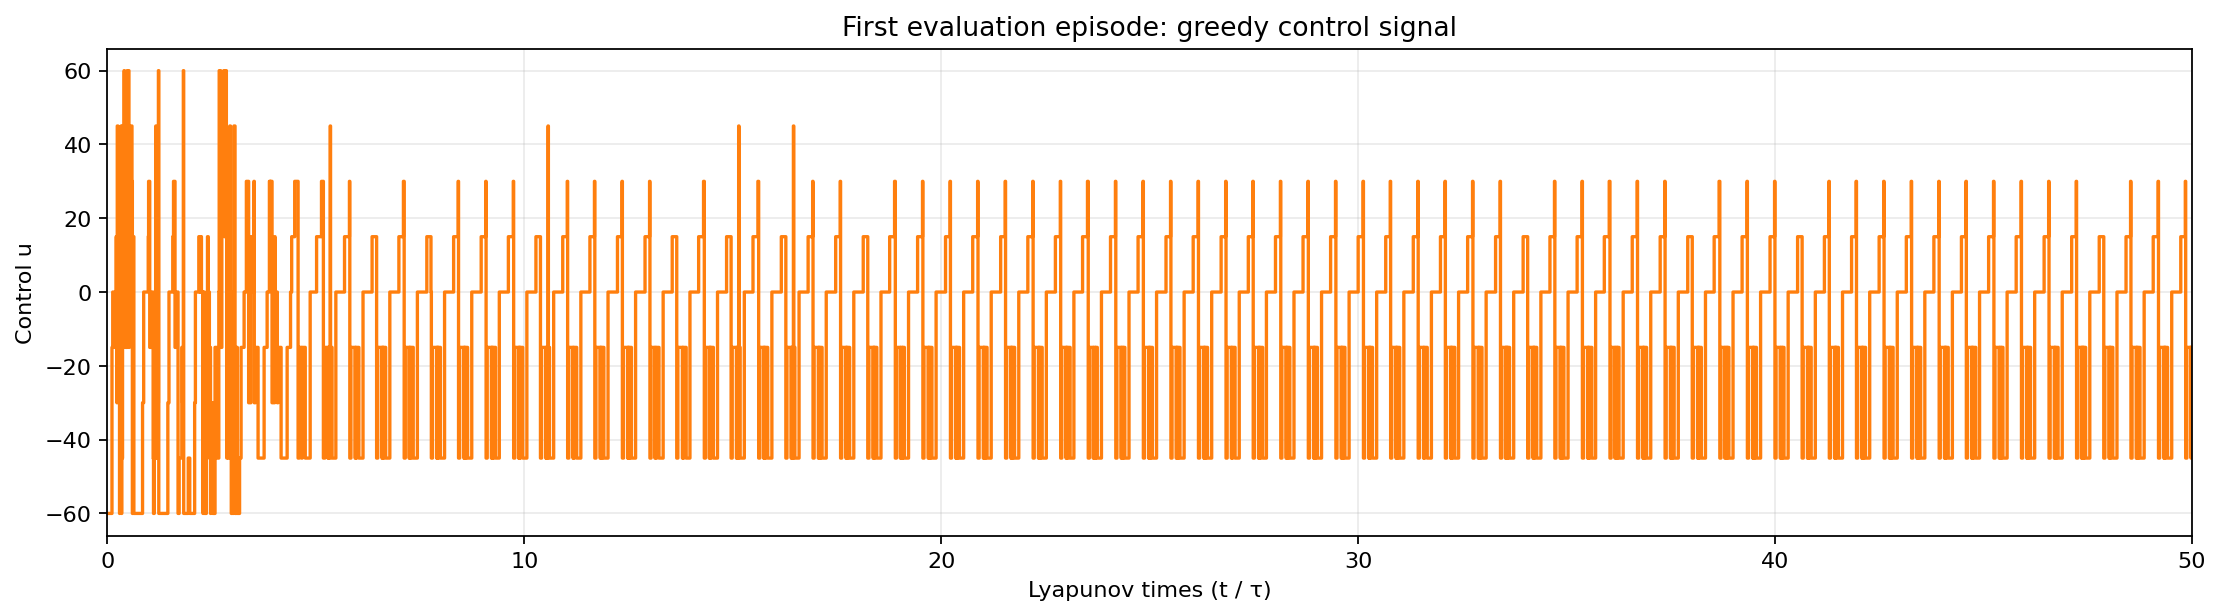
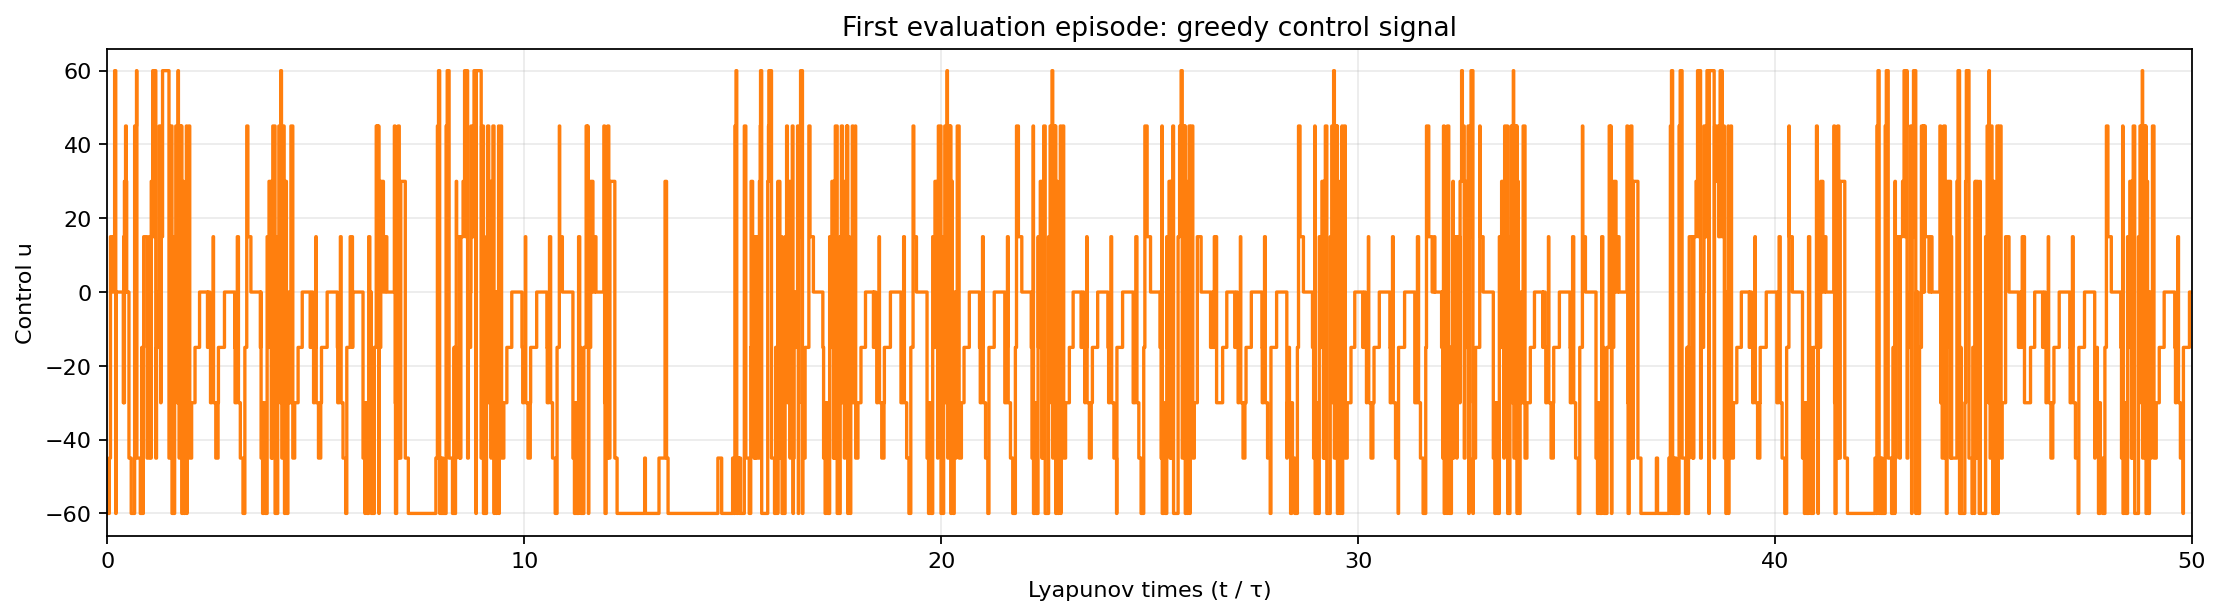
Unify Q-learning experiment settings

diff --git a/Pytorch/Chaos Research/Q-Learning/QLearning.py b/Pytorch/Chaos Research/Q-Learning/QLearning.py
@@ -11,6 +11,7 @@ hyperparameters are necessarily specific to the gradient-free method.
 """
 
 import argparse
+from dataclasses import dataclass
 from typing import Callable, Dict, List, Optional, Sequence, Tuple, Union, TypedDict, cast
 
 class TrainingHistory(TypedDict):
@@ -41,6 +42,52 @@ DEFAULT_STATE_BOUNDS: Tuple[Tuple[float, float], ...] = (
     (-30.0, 30.0),
     (0.0, 60.0),
 )
+
+
+@dataclass(frozen=True)
+class ExperimentDefaults:
+    """Shared runnable experiment settings used by both Q-learning scripts.
+
+    Edit this block when changing experiment parameters.  ``QLearning.py`` and
+    ``PlotQLearning.py`` both read the same values, while command-line options
+    can still override them for a single run.
+    """
+
+    # Episode settings
+    episodes: int = 600
+    eval_episodes: int = 5
+    max_steps: Optional[int] = None
+    eval_max_steps: Optional[int] = None
+
+    # Reproducibility
+    seed: int = 7
+
+    # Simulation duration
+    training_lyapunov_times: float = 2.0
+    evaluation_lyapunov_times: float = 50.0
+
+    # Control settings
+    control_cost: float = LAMBDA
+    regularized: bool = True
+    action_low: float = -U_REF
+    action_high: float = U_REF
+    action_bins: int = 9
+
+    # State discretization
+    state_bins: Tuple[int, int, int] = (15, 15, 15)
+
+    # Q-learning hyperparameters
+    learning_rate: float = 0.01
+    discount_factor: float = 1.0
+    epsilon: float = 1.0
+    epsilon_decay: float = 0.50
+    epsilon_min: float = 0.05
+
+    # Initial-condition perturbation
+    initial_state_noise: float = 0.1
+
+
+EXPERIMENT_DEFAULTS = ExperimentDefaults()
 
 
 def lyapunov_times_to_steps(lyapunov_times: float) -> int:
@@ -662,15 +709,50 @@ def evaluate_q_learning(
 
 def main() -> None:
     """Run a configurable tabular Q-learning example."""
+    defaults = EXPERIMENT_DEFAULTS
     parser = argparse.ArgumentParser(description=__doc__)
-    parser.add_argument("--episodes", type=int, default=600)
-    parser.add_argument("--eval-episodes", type=int, default=5)
-    parser.add_argument("--max-steps", type=int, default=None)
-    parser.add_argument("--seed", type=int, default=7)
+    parser.add_argument("--episodes", type=int, default=defaults.episodes)
+    parser.add_argument("--eval-episodes", type=int, default=defaults.eval_episodes)
+    parser.add_argument("--max-steps", type=int, default=defaults.max_steps)
+    parser.add_argument("--eval-max-steps", type=int, default=defaults.eval_max_steps)
+    parser.add_argument("--seed", type=int, default=defaults.seed)
+    parser.add_argument(
+        "--lyapunov-times",
+        type=float,
+        default=defaults.training_lyapunov_times,
+    )
+    parser.add_argument(
+        "--eval-lyapunov-times",
+        type=float,
+        default=defaults.evaluation_lyapunov_times,
+    )
+    parser.add_argument("--control-cost", type=float, default=defaults.control_cost)
     parser.add_argument(
         "--regularized",
-        action="store_true",
+        action=argparse.BooleanOptionalAction,
+        default=defaults.regularized,
         help="include LAMBDA times normalized control effort",
+    )
+    parser.add_argument("--action-low", type=float, default=defaults.action_low)
+    parser.add_argument("--action-high", type=float, default=defaults.action_high)
+    parser.add_argument("--action-bins", type=int, default=defaults.action_bins)
+    parser.add_argument(
+        "--state-bins",
+        type=int,
+        nargs=3,
+        default=list(defaults.state_bins),
+    )
+    parser.add_argument("--learning-rate", type=float, default=defaults.learning_rate)
+    parser.add_argument(
+        "--discount-factor", type=float, default=defaults.discount_factor
+    )
+    parser.add_argument("--epsilon", type=float, default=defaults.epsilon)
+    parser.add_argument("--epsilon-decay", type=float, default=defaults.epsilon_decay)
+    parser.add_argument("--epsilon-min", type=float, default=defaults.epsilon_min)
+    parser.add_argument(
+        "--initial-state-noise",
+        type=float,
+        default=defaults.initial_state_noise,
     )
     args = parser.parse_args()
     if args.episodes < 1:
@@ -679,36 +761,63 @@ def main() -> None:
         parser.error("--eval-episodes must be at least 1")
     if args.max_steps is not None and args.max_steps < 1:
         parser.error("--max-steps must be at least 1")
+    if args.eval_max_steps is not None and args.eval_max_steps < 1:
+        parser.error("--eval-max-steps must be at least 1")
+    if args.lyapunov_times <= 0.0 or args.eval_lyapunov_times <= 0.0:
+        parser.error("Lyapunov-time horizons must be positive")
+    if args.initial_state_noise < 0.0:
+        parser.error("--initial-state-noise must be nonnegative")
 
-    env = LorenzEnvEuler(
-        alpha=LAMBDA,
-        lyapunov_times=20.0,
+    initial_state_rng = np.random.default_rng(args.seed)
+
+    def seeded_initial_state() -> np.ndarray:
+        return INITIAL_STATE + initial_state_rng.normal(
+            0.0, args.initial_state_noise, size=3
+        )
+
+    training_env = LorenzEnvEuler(
+        alpha=args.control_cost,
+        lyapunov_times=args.lyapunov_times,
         action_type="discrete",
-        action_bounds=(-U_REF, U_REF),
-        n_action_bins=9,
-        ic_dist=lambda: INITIAL_STATE.copy(),
+        action_bounds=(args.action_low, args.action_high),
+        n_action_bins=args.action_bins,
+        ic_dist=seeded_initial_state,
         regularized=args.regularized,
         u_ref=U_REF,
     )
     agent = QLearningAgent(
-        n_actions=len(env.actions),
-        learning_rate=0.01,
-        # An undiscounted return matches the trajectory-mean reference loss.
-        discount_factor=1.0,
-        epsilon=1.0,
-        epsilon_decay=0.50,
-        epsilon_min=0.05,
-        state_bins=(15, 15, 15),
+        n_actions=len(training_env.actions),
+        learning_rate=args.learning_rate,
+        discount_factor=args.discount_factor,
+        epsilon=args.epsilon,
+        epsilon_decay=args.epsilon_decay,
+        epsilon_min=args.epsilon_min,
+        state_bins=tuple(args.state_bins),
         random_seed=args.seed,
     )
 
-    history = train_q_learning(env, agent, args.episodes, args.max_steps)
+    history = train_q_learning(
+        training_env,
+        agent,
+        args.episodes,
+        args.max_steps,
+    )
+    evaluation_env = LorenzEnvEuler(
+        alpha=args.control_cost,
+        lyapunov_times=args.eval_lyapunov_times,
+        action_type="discrete",
+        action_bounds=(args.action_low, args.action_high),
+        n_action_bins=args.action_bins,
+        ic_dist=seeded_initial_state,
+        regularized=args.regularized,
+        u_ref=U_REF,
+    )
     evaluation = evaluate_q_learning(
-        env,
+        evaluation_env,
         agent,
         args.eval_episodes,
-        args.max_steps,
-        x0=INITIAL_STATE,
+        args.eval_max_steps,
+        x0=None,
     )
 
     window = min(50, len(history["episode_rewards"]))

diff --git a/Pytorch/Chaos Research/Q-Learning/PlotQLearning.py b/Pytorch/Chaos Research/Q-Learning/PlotQLearning.py
@@ -241,7 +241,8 @@ def plot_evaluation_diagnostics(
     rounded_time_end = float(np.rint(state_times[-1]))
     display_time_end = (
         rounded_time_end
-        if np.isclose(state_times[-1], rounded_time_end, atol=0.02)
+        if rounded_time_end >= 1.0
+        and np.isclose(state_times[-1], rounded_time_end, atol=0.02)
         else float(state_times[-1])
     )
 
@@ -474,44 +475,64 @@ def _parse_state_bins(values: Sequence[int]) -> int | tuple[int, int, int]:
 
 
 def _build_parser() -> argparse.ArgumentParser:
+    defaults = qlearning.EXPERIMENT_DEFAULTS
     parser = argparse.ArgumentParser(description=__doc__)
-    parser.add_argument("--episodes", type=int, default=500)
-    parser.add_argument("--eval-episodes", type=int, default=5)
+    parser.add_argument("--episodes", type=int, default=defaults.episodes)
+    parser.add_argument("--eval-episodes", type=int, default=defaults.eval_episodes)
     parser.add_argument(
         "--max-steps",
         type=int,
-        default=None,
+        default=defaults.max_steps,
         help="Optional training-step cap per episode",
     )
     parser.add_argument(
         "--eval-max-steps",
         type=int,
-        default=None,
+        default=defaults.eval_max_steps,
         help="Optional evaluation-step cap; defaults to the full evaluation horizon",
     )
-    parser.add_argument("--seed", type=int, default=7)
+    parser.add_argument("--seed", type=int, default=defaults.seed)
     parser.add_argument(
         "--lyapunov-times",
         type=float,
-        default=2.0,
+        default=defaults.training_lyapunov_times,
         help="Training episode length in Lyapunov times",
     )
     parser.add_argument(
         "--eval-lyapunov-times",
         type=float,
-        default=50.0,
+        default=defaults.evaluation_lyapunov_times,
         help="Evaluation episode length in Lyapunov times",
     )
-    parser.add_argument("--control-cost", type=float, default=qlearning.LAMBDA)
-    parser.add_argument("--action-low", type=float, default=-qlearning.U_REF)
-    parser.add_argument("--action-high", type=float, default=qlearning.U_REF)
-    parser.add_argument("--action-bins", type=int, default=9)
-    parser.add_argument("--state-bins", type=int, nargs="+", default=[15, 15, 15])
-    parser.add_argument("--learning-rate", type=float, default=0.15)
-    parser.add_argument("--discount-factor", type=float, default=0.99)
-    parser.add_argument("--epsilon", type=float, default=1.0)
-    parser.add_argument("--epsilon-decay", type=float, default=0.99)
-    parser.add_argument("--epsilon-min", type=float, default=0.05)
+    parser.add_argument("--control-cost", type=float, default=defaults.control_cost)
+    parser.add_argument(
+        "--regularized",
+        action=argparse.BooleanOptionalAction,
+        default=defaults.regularized,
+        help="include normalized control effort in the objective",
+    )
+    parser.add_argument("--action-low", type=float, default=defaults.action_low)
+    parser.add_argument("--action-high", type=float, default=defaults.action_high)
+    parser.add_argument("--action-bins", type=int, default=defaults.action_bins)
+    parser.add_argument(
+        "--state-bins",
+        type=int,
+        nargs="+",
+        default=list(defaults.state_bins),
+    )
+    parser.add_argument("--learning-rate", type=float, default=defaults.learning_rate)
+    parser.add_argument(
+        "--discount-factor", type=float, default=defaults.discount_factor
+    )
+    parser.add_argument("--epsilon", type=float, default=defaults.epsilon)
+    parser.add_argument("--epsilon-decay", type=float, default=defaults.epsilon_decay)
+    parser.add_argument("--epsilon-min", type=float, default=defaults.epsilon_min)
+    parser.add_argument(
+        "--initial-state-noise",
+        type=float,
+        default=defaults.initial_state_noise,
+        help="standard deviation of the seeded initial-state perturbation",
+    )
     parser.add_argument(
         "--output-dir",
         type=Path,
@@ -566,12 +587,18 @@ def main() -> None:
         parser.error("require 0 <= --epsilon-min <= --epsilon <= 1")
     if not 0.0 < args.epsilon_decay <= 1.0:
         parser.error("--epsilon-decay must be in (0, 1]")
+    if not np.isfinite(args.initial_state_noise) or args.initial_state_noise < 0.0:
+        parser.error("--initial-state-noise must be finite and nonnegative")
 
     reference_state = np.asarray(qlearning.INITIAL_STATE, dtype=np.float64).copy()
     initial_state_rng = np.random.default_rng(args.seed)
 
     def seeded_initial_state() -> np.ndarray:
-        return reference_state + initial_state_rng.normal(0.0, 0.1, size=3)
+        return reference_state + initial_state_rng.normal(
+            0.0,
+            args.initial_state_noise,
+            size=3,
+        )
 
     training_env = LorenzEnvEuler(
         alpha=args.control_cost,
@@ -580,7 +607,7 @@ def main() -> None:
         action_bounds=(args.action_low, args.action_high),
         n_action_bins=args.action_bins,
         ic_dist=seeded_initial_state,
-        regularized=True,
+        regularized=args.regularized,
         u_ref=qlearning.U_REF,
     )
     agent = QLearningAgent(
@@ -607,7 +634,7 @@ def main() -> None:
         action_bounds=(args.action_low, args.action_high),
         n_action_bins=args.action_bins,
         ic_dist=seeded_initial_state,
-        regularized=True,
+        regularized=args.regularized,
         u_ref=qlearning.U_REF,
     )
     table_before_evaluation = agent.q_table.copy()
